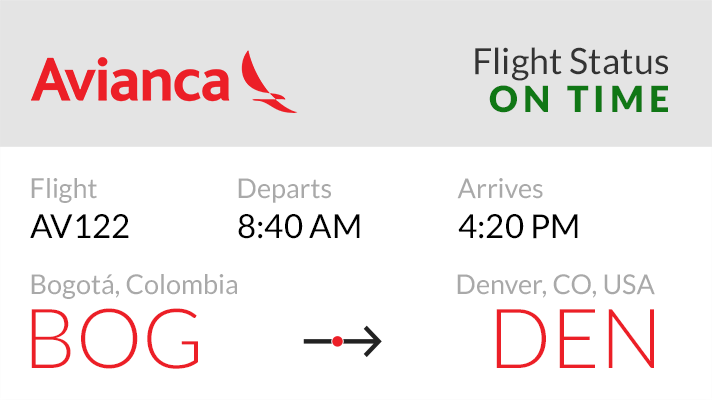
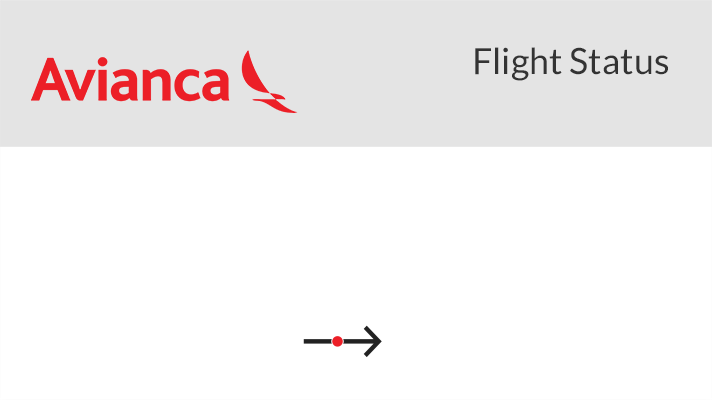
Image card test- 3 version

diff --git a/src/classes.php b/src/classes.php
@@ -514,8 +514,6 @@ class ChatfuelMessage {
 class FlightImage {
 
 
-// $FontPathRegular =  __DIR__ . '/../template/fonts/Lato-Regular.ttf';
-// $FontPathBold = __DIR__ . '/../template/fonts/Lato-Bold.ttf';
 
 
 
@@ -575,6 +573,7 @@ class FlightImage {
     $ImagePath = './../src/flight-status-template.png';
     $FontPathRegular = './../templates/fonts/Lato-Regular.ttf';
     $FontPathBold =  './../templates/fonts/Lato-Bold.ttf';
+    $FontPathLight =  './../templates/fonts/Lato-Light.ttf';
 
 
     try {
@@ -582,32 +581,40 @@ class FlightImage {
         //Create image
         $img = new SimpleImage($ImagePath);
 
+
+
         
-        //STOPS 
-        // if ($FlightData["stops"] > 1) {
-        // $img->text($FlightData["stops"]." stops", $FontPathRegular, 24, '#EC1F27', 'top', -6, 228);
-        // }else{
-        //  $img->text("Direct", $FontPathRegular, 24, '#EC1F27', 'top', -6, 228);   
-        // }
+       
         
-        // // DEPARTURE TIME
-        // $img->text($FlightData["DepartureTime"], $FontPathBold, 40, '#000000', 'left', 38, 10);
-        // // ARRIVAL TIME
-        // $img->text($FlightData["ArrivalTime"], $FontPathBold, 40, '#000000', 'right', -40, 10);
-        // // DEPART CITY
-        // $img->text($FlightData["OriginAirport"], $FontPathRegular, 31, '#B7B7B7', 'top', -274, 263);
-        // //ARRIVAL CITY
-        // $img->text($FlightData["DestinationAirport"], $FontPathRegular, 31, '#B7B7B7', 'top', 278, 263);
-        // //DEPARTURE DATE
-        // $img->text($FlightData["DepartureDate"], $FontPathRegular, 23.5, '#7a7a7a', 'left', 45, 134);
-        // //ARRIVAL DATE
-        // $img->text($FlightData["ArrivalDate"], $FontPathRegular, 23.5, '#7a7a7a', 'right', -45, 136);
-        // // OPTION
-        // $img->text($Option+1, $FontPathRegular, 24, '#FFFFFF', 'top', 310, 65);
+        //Status
+        $img->text(strtoupper($FlightData->{'status-en'}), $FontPathBold, 30, '#107715', 'top', 218, 85);
+        // Flight Departs Arrives
+        $img->text("Flight", $FontPathRegular, 20, '#a9a9a9', 'top', -293, 170);
+        $img->text("Departs", $FontPathRegular, 20, '#a9a9a9', 'top', -34, 170);
+        $img->text("Arrives", $FontPathRegular, 20, '#a9a9a9', 'top', 185, 175);
+        // Flight Number 
+        $img->text($FlightData->airline_code.$FlightData->flight_number, $FontPathRegular, 24, '#000000', 'top', -267, 212);
+        // Time 1
+        $FlightData->schedule_time = date('g:i a', strtotime($FlightData->schedule_time));   
+        $img->text($FlightData->schedule_time, $FontPathRegular, 24, '#000000', 'top', -25, 205);
+
+        //Time 2 
+        $FlightData->estimated_time = date('g:i a', strtotime($FlightData->estimated_time));   
+        $img->text($FlightData->estimated_time, $FontPathRegular, 24, '#000000', 'top', 198, 212);
+
+        //City 1 Bogota Upper
+        $img->text("Bogotá", $FontPathRegular, 22, '#a9a9a9', 'top', -282, 267);
+        // City 2  Upper
+        $img->text($FlightData->location, $FontPathRegular, 22, '#a9a9a9', 'top', 195, 269);
+
+        //City 1 Bogota Big
+        $img->text("BOG", $FontPathLight, 62, '#ec1f27', 'top', -249, 305);
+        // City 2  BIG
+        $img->text($FlightData->airport, $FontPathLight, 62, '#ec1f27', 'top', 200, 307);
         
         //Once Created set path to be saved 
 
-        $ImageResultPath = "./images/result-image-".time().".png" ;
+        $ImageResultPath = "./images/result-image-status".time().".png" ;
         
 
         $img->save($ImageResultPath);

diff --git a/templates/flight-status.php b/templates/flight-status.php
@@ -13,7 +13,7 @@ $flightStatusImage = new FlightImage;
 $flightData = array();
 
 // Get data
-
+$type = strtolower($type);
 $flight_number = $helper->ExtractNumbers($flight_number);
 $flight = $flight->SearchFlight($flight_number,$type);
 // create image
